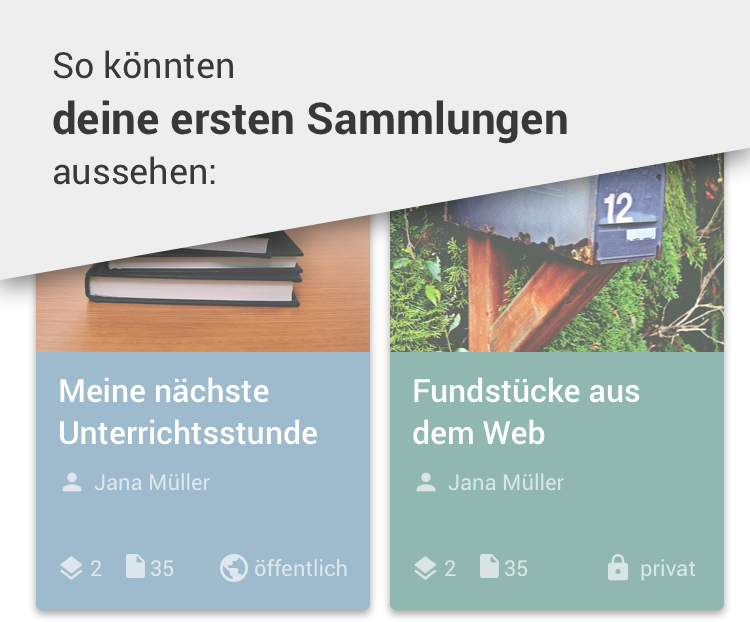
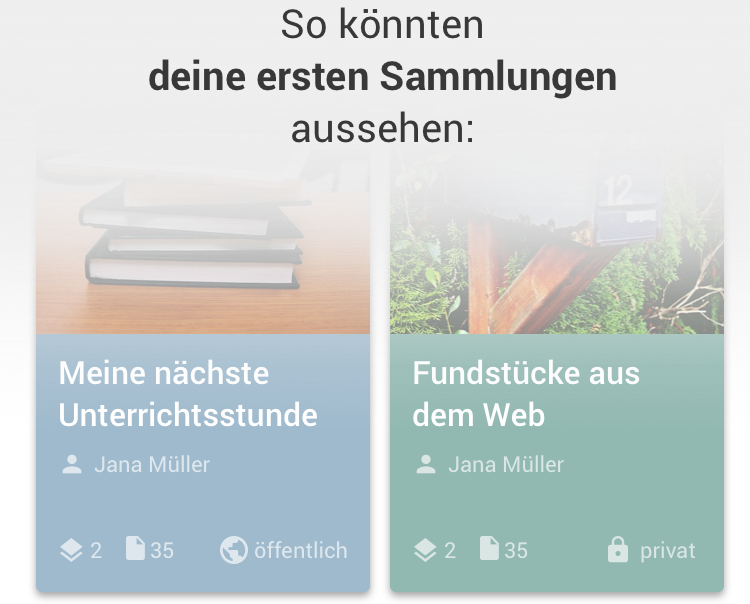
DESAPP-200

diff --git a/www/templates/tab-collections.html b/www/templates/tab-collections.html
@@ -115,13 +115,14 @@
         margin-left: auto;
         margin-right: auto;
       ">
+
         <!-- EMPTY SCREEN ROOT -->
-        <div ng-show="empty" style="text-align: center; padding: 14px; font-size: 100%; color: #A8A8A8;">
+        <div ng-show="emptyRoot" style="text-align: center; padding: 14px; font-size: 100%; color: #A8A8A8;">
             <p ng-show="selectedTab=='orga'">Es gibt bisher keine von deinen Organisationen geteilten Sammlungen.</p>
             <p ng-show="selectedTab=='all'">Es wurden bisher keine Sammlungen freigegeben.</p>
             <div ng-show="selectedTab=='my'">
 
-                <img style="width: 110%;width: calc(100% + 30px); max-width: 600px;margin-left: -15px;" src="./img/intro-collections.png">
+                <img style="width: 100%; max-width: 600px;" src="./img/intro-collections.png">
 
                 <div style="font-size:80%;margin-top:4px;margin-bottom:0px;color:black;font-weight: bold;">Tipp:</div>
                 <div style="font-size:100%;width:80%;text-align:center;margin-left:auto;margin-right:auto;">Sammlungen kannst du erstellen, indem du auf das "+" rechts oben drückst.</div>
@@ -134,6 +135,7 @@
                     margin-right: auto;
                     display: inline-block;
                     font-size:100%;
+                    margin-top: 16px;
                     font-weight: 500;">
                     ERSTE SAMMLUNG ERSTELLEN
                 </button>
@@ -183,7 +185,7 @@
 
             <div ng-show="(!isRoot) && (contentReferences.length==0)" style="text-align: center; padding: 14px; font-size: 100%; color: #A8A8A8;">
                 <div class="centerWhenPotraitInvert" >Diese Sammlung enthält bisher keine Materialien.</div>
-                <div ng-show="headerShowNewCollection" on-tap="goSearch()" style="margin-top:16px; font-size:120%; color: #315774;" class="centerWhenPotraitInvert">ZUR SUCHE</div>
+                <div ng-show="(headerShowNewCollection && !emptySub)" on-tap="goSearch()" style="margin-top:16px; font-size:120%; color: #315774;" class="centerWhenPotraitInvert">ZUR SUCHE</div>
             </div>    
 
         </div>
@@ -191,10 +193,18 @@
       </div>
 
     </ion-content>
-    <div ng-show="headerShowEditCollection" on-tap="goSearch()" class="floatingButton" ><img style="
+
+    <!-- EMPTY SCREEN SUB -->
+    <div ng-show="(emptySub && headerShowNewCollection)" style="position: fixed; bottom: 0px; right: 0px;">
+        <img style="width: 250px;" src="./img/intro-untersammlung.png">
+    </div>
+
+    <!-- FAB BUTTON -->
+    <div ng-show="headerShowNewCollection" on-tap="goSearch()" class="floatingButton" ><img style="
         width: 21px;
         margin-top: -4px;
         margin-left: 0px;"
         src="./img/file-plus-white.png">
     </div>
+
 </ion-view>

diff --git a/www/js/controller-collections.js b/www/js/controller-collections.js
@@ -49,7 +49,8 @@ angular.module('starter.controllerCollections', [])
     };
 
     $scope.pressedSelectorMy = function() {
-        $scope.empty = false;
+        $scope.emptyRoot = false;
+        $scope.emptySub = false;
         $scope.breadCrumbs = [{name:'Meine', nodeId:'-MY'}];
         $scope.collections = [];
         $scope.actualCollection = null;
@@ -58,7 +59,8 @@ angular.module('starter.controllerCollections', [])
     };
 
     $scope.pressedSelectorOrga = function() {
-        $scope.empty = false;
+        $scope.emptyRoot = false;
+        $scope.emptySub = false;
         $scope.breadCrumbs = [{name:'Organisationen', nodeId:'-ORGA'}];
         $scope.collections = [];
         $scope.actualCollection = null;
@@ -67,7 +69,8 @@ angular.module('starter.controllerCollections', [])
     };
 
     $scope.pressedSelectorAll = function() {
-        $scope.empty = false;
+        $scope.emptyRoot = false;
+        $scope.emptySub = false;
         $scope.breadCrumbs = [{name:'Alle', nodeId:'-ALL'}];
         $scope.collections = [];
         $scope.actualCollection = null;
@@ -154,7 +157,8 @@ angular.module('starter.controllerCollections', [])
             }
 
             // check if empty
-            $scope.empty = ((parentId==="-root-") && ($scope.collections.length===0));
+            $scope.emptyRoot = ((parentId==="-root-") && ($scope.collections.length===0));
+            $scope.emptySub = ((parentId!="-root-") && ($scope.collections.length===0) && ($scope.contentReferences.length===0));
 
             if (!$scope.isRoot) {
 
@@ -334,7 +338,8 @@ angular.module('starter.controllerCollections', [])
             Toolbox.setLatestCollection(item);
 
             $scope.actualCollection = item;
-            $scope.empty = false;
+            $scope.emptyRoot = false;
+            $scope.emptySub = false;
             $scope.collections = []; 
             $scope.loadCollections(item.ref.id,'EDU_ALL'); 
 
@@ -393,7 +398,8 @@ angular.module('starter.controllerCollections', [])
                 $scope.breadCrumbs = $scope.breadCrumbs.slice(0,arrayIndex+1);
                 $scope.actualCollection = data;
                 $scope.actualCollection.typeStyle = "collection";
-                $scope.empty = false;
+                $scope.emptyRoot = false;
+                $scope.emptySub = false;
                 $scope.loadCollections(crumb.nodeId,'EDU_ALL');
             }, function(){
                 // FAIL

diff --git a/www/js/controllers.js b/www/js/controllers.js
@@ -7,7 +7,8 @@ angular.module('starter.controllers', [])
 .controller('AppCtrl', function($log, $rootScope, $scope, $location, $ionicSideMenuDelegate, Account, $timeout, $window, $ionicLoading, $ionicPopup, $cordovaCamera, System, Toolbox, Share, EduApi, $ionicHistory, $ionicActionSheet) {
 
         $scope.activePage = "";
-        $rootScope.searchword = "";
+
+        $scope.activeSearch = false;
 
         $rootScope.editFolderNotAllowed = false;
 
@@ -172,17 +173,43 @@ angular.module('starter.controllers', [])
         };
 
         // called when user hits search button
-        $scope.doSearch = function(str) {
-            if (str.trim().length===0) str="*";
+        $scope.doSearch = function() {
+            var str = $scope.searchInputField.value;
+            if (str.trim().length===0) {
+                str="*";
+            } else {
+                $scope.activeSearch = true;
+            }
             $scope.$broadcast('search:keyword', str.trim());
         };
 
+        $rootScope.$on('search:keyword:set',function(event, args) {
+            $scope.searchInputField.value = args;
+            $timeout(function(){
+                $scope.searchInputField.value = args;
+            },100);
+        });
+
         // called when user types searchword
-        $scope.changedSearch = function(event, str) {
+        $scope.searchInputField = document.getElementById('searchWordInput');
+        $scope.changedSearch = function(event) {
+            $scope.searchInputField = event.target;
+            var str = $scope.searchInputField.value;
             if (event.keyCode===13) {
-                if (str.trim().length===0) return;
-                $scope.$broadcast('search:keyword', str.trim());
+                if (str.trim().length===0) {
+                    $scope.cancelSearch();
+                } else {
+                    $scope.doSearch(str);
+                }
             }
+        };
+
+        $scope.cancelSearch = function() {
+            $timeout(function(){
+                $scope.activeSearch = false;
+                $scope.searchInputField.value = "";
+                $scope.doSearch("");
+            },10);
         };
 
         $scope.headerButtonNewCollection = function() {

diff --git a/www/templates/menu.html b/www/templates/menu.html
@@ -115,7 +115,8 @@
                 </div>
 
                 <div ng-show="(headerShowSearch) && (!multiSelectionMode)" class="searchareatop" style="display:none;{{displayDivFlex}};">
-                    <input id="searchWordInput" ng-keyup="changedSearch($event, searchword)" placeholder="Suchbegriff" type="search" style="
+                    <!--<form><input id="searchWordInput" ng-keyup="changedSearch($event)" type="text" /></form>-->
+                    <input id="searchWordInput" ng-keyup="changedSearch($event)" placeholder="Suchbegriff" type="search" style="
               min-width: 130px;
               width: 50%;
               height: 21px;
@@ -125,8 +126,11 @@
               border-radius: 3px;
               -webkit-appearance: none;
               -webkit-border-radius: 3;
-              " ng-model="searchword">
-                    <button id="searchareabutton" on-tap="doSearch(searchword)" class="button button-small" style="
+              ">
+                    <div style="position:relative;left: -28px;top: 5px; width: 0px;">
+                        <i ng-show="activeSearch" ng-click="cancelSearch()" class="icon ion-close-circled" style="font-size: 24px;color: grey;"></i>
+                    </div>
+                    <button id="searchareabutton" on-tap="doSearch()" class="button button-small" style="
                 color: white;
                 border-radius: 0px;
                 height: 30px;

diff --git a/www/js/app.js b/www/js/app.js
@@ -161,14 +161,6 @@ angular.module('starter', [
         $rootScope.$broadcast('button:back', e);
     }, 400);
 
-    // WORKAROUND: APP did not updating search text in input field
-    $rootScope.$on('search:kleyword:set',function(event, args) {
-        $rootScope.searchword = args;
-        $timeout(function(){
-            $rootScope.searchword = args;
-        },100);
-    });
-
     // let login view know that ionic is ready to maybe show intro screen
     $rootScope.ionicReady = true;
     $rootScope.$broadcast('ionic-ready', null);

diff --git a/www/js/controller-search.js b/www/js/controller-search.js
@@ -48,7 +48,7 @@ angular.module('starter.controllerSearch', [])
             //console.log("$scope.breadCrumbs - after",$scope.breadCrumbs);
             $scope.startSearch(previousSearch);
             $timeout(function(){
-                $rootScope.$broadcast('search:kleyword:set', previousSearch);
+                $rootScope.$broadcast('search:keyword:set', previousSearch);
             },100);
         } else {
             $ionicSideMenuDelegate.toggleLeft();

diff --git a/www/templates/tab-search.html b/www/templates/tab-search.html
@@ -1,4 +1,5 @@
 <ion-view view-title="Suche" style="background-color: #EEEEEE;">
+
     <ion-content ng-hide="showIntro" overflow-scroll="false" scrollbar-x="false" scrollbar-y="true" style="
         overflow: hidden;
         max-width: 900px;
